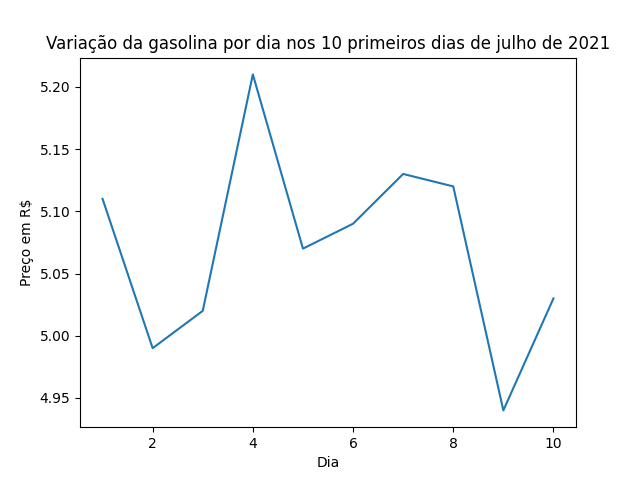
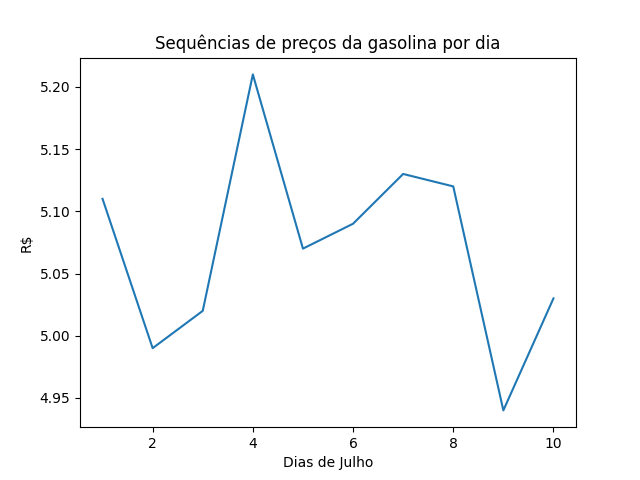
arquivo gasolina.py criado e gráfico modivicado em develop

Changed region(s): [[0.0625, 0.0625, 0.9375, 0.125], [0.4375, 0.9375, 0.5938, 1.0], [0.0312, 0.4062, 0.0625, 0.5938]]

diff --git a/gasolina.py b/gasolina.py
@@ -1,0 +1,13 @@
+
+import pandas as pd
+import seaborn as sns
+
+FILE = 'gasolina.csv'
+
+data = pd.read_csv(FILE)
+
+grafico = sns.lineplot(data=data, x='dia', y='venda')
+grafico.set(title='Sequências de preços da gasolina por dia',xlabel='Dias de Julho', ylabel='R$')
+
+fig = grafico.get_figure()
+fig.savefig('gasolina.png')
